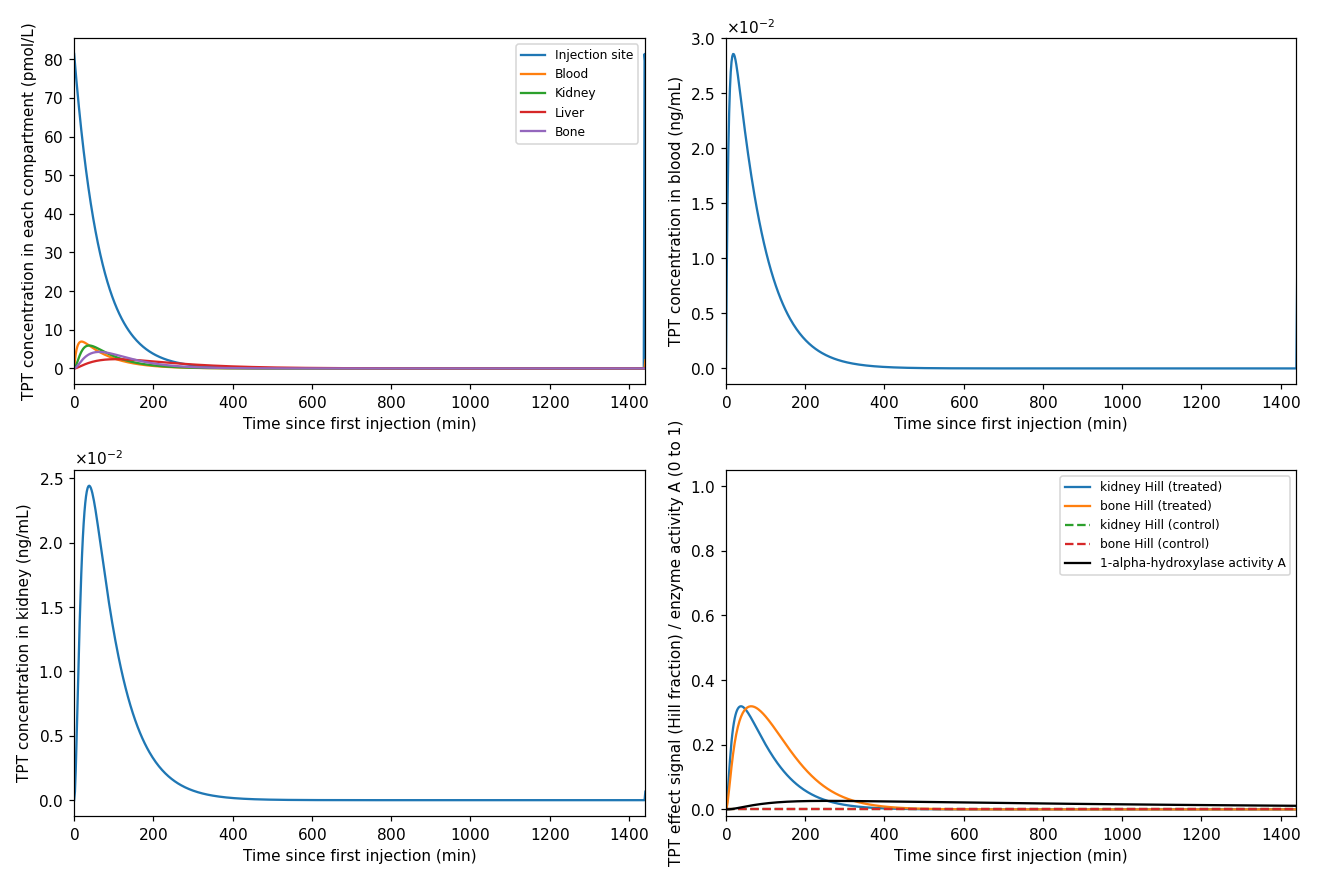
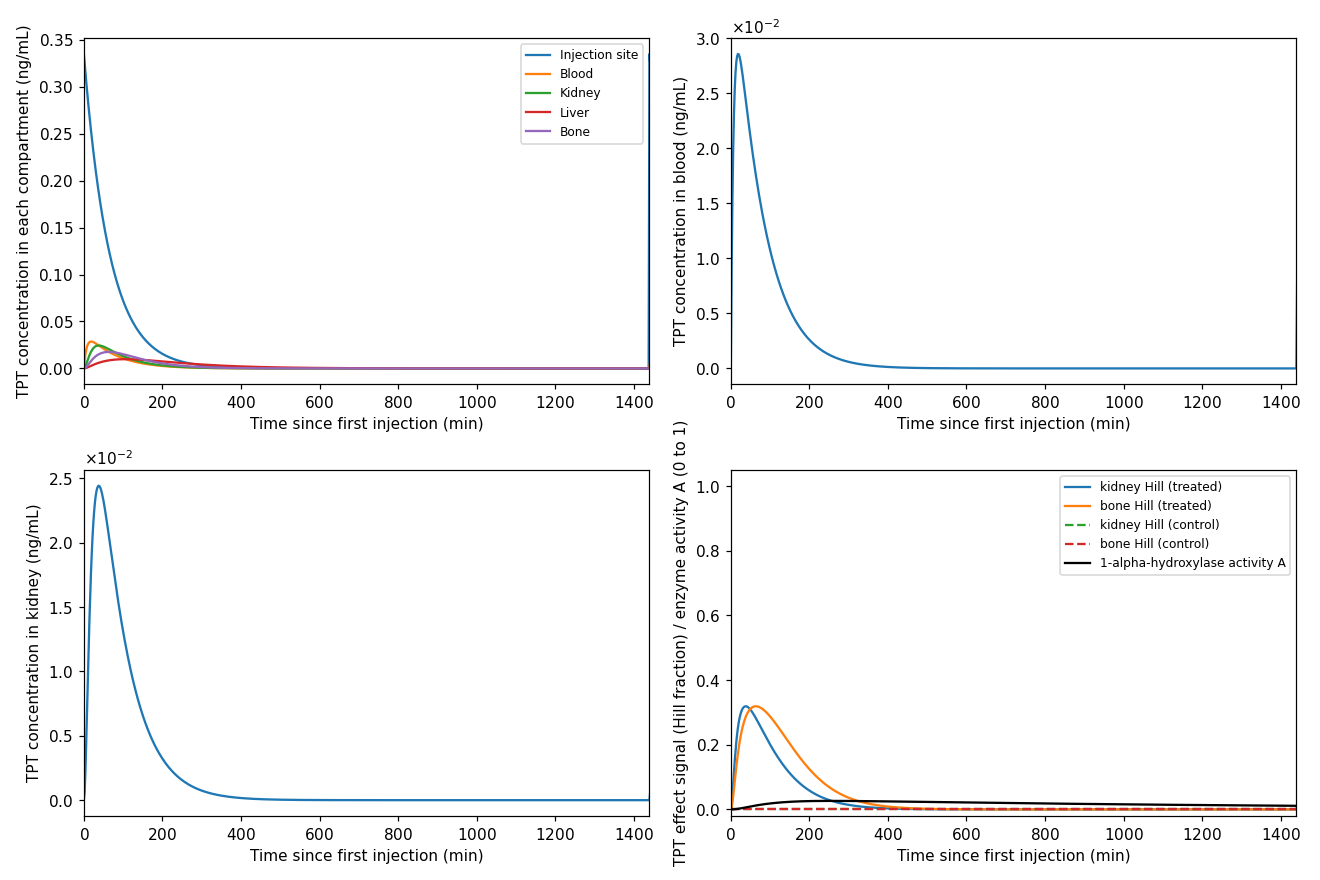
It isn’t a sadness, but a joy, that we don’t do the same things for the length of our lives.”

diff --git a/main.py b/main.py
@@ -6,7 +6,7 @@ WHAT IS MODELLED  (three linked compartment models, solved one after another)
   2. Calcitriol                            kidney, blood, liver, gut        <- driven by TPT in kidney
   3. Calcium                               intake, gut, blood, kidney, bone <- driven by TPT (kidney, bone) and calcitriol (blood)
 
-UNITS   TPT: mmol | calcitriol and calcium: mg | time: min | volume: L   (the figures show concentrations: pmol/L, ng/mL, pg/mL, mg/dL)
+UNITS   TPT: mmol | calcitriol and calcium: mg | time: min | volume: L   (the figures show concentrations: ng/mL, pg/mL, mg/dL)
 
 HOW THE RESULTS ARE READ
   Every model is solved twice: TREATED (TPT injection) and CONTROL (no injection). Every compartment starts at
@@ -661,8 +661,8 @@ def make_plots_daily(sim, out):
     fig, ax = plt.subplots(2, 2, figsize=(12, 8))
     for index, (key, label) in enumerate([("injection", "Injection site"), ("blood", "Blood"), ("kidney", "Kidney"),
                                           ("liver", "Liver"), ("bone", "Bone")]):
-        ax[0, 0].plot(t, T.y[index] / vol(key) * 1e9, label=label)      # mmol/L -> pmol/L
-    ax[0, 0].set(ylabel="TPT concentration in each compartment (pmol/L)")
+        ax[0, 0].plot(t, T.y[index] / vol(key) * tpt.mol_weight_TPT * 1000, label=label)   # mmol/L * mg/mmol * 1000 = ng/mL
+    ax[0, 0].set(ylabel="TPT concentration in each compartment (ng/mL)")
     ax[0, 0].legend(fontsize=8)
     ax[0, 1].plot(t, out["TPT_blood_concen_ng_per_mL"])
     peak_c = np.max(out["TPT_blood_concen_ng_per_mL"])
